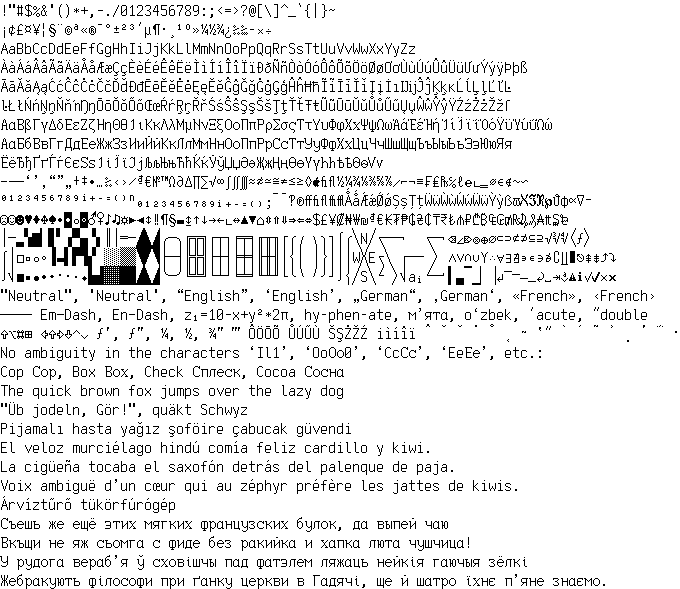
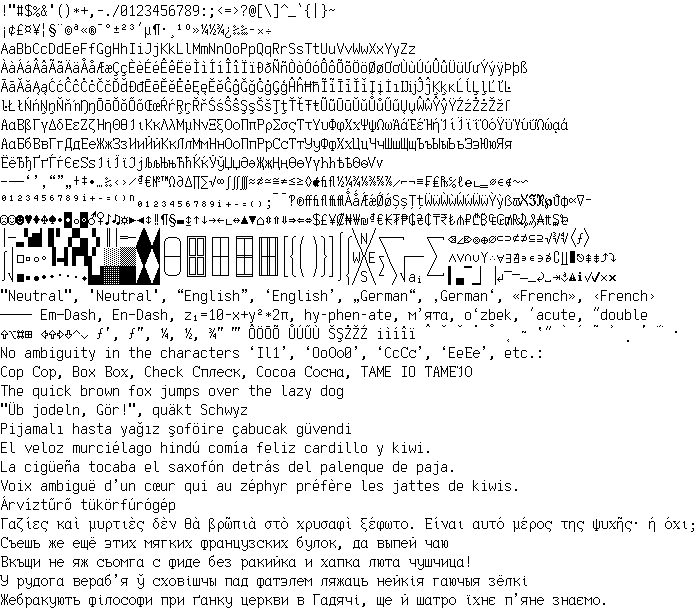
v1.6

Changed region(s): [[0.0, 0.0, 1.0, 1.0]]

diff --git a/export.js b/export.js
@@ -6,6 +6,7 @@ const chWidth = 8;
 const chHeight = 19;
 const chCapsHeight = 11;
 const chMaxDiacriticHeight = 6;
+const chSecondDiacriticsOffset = 4;
 
 const chars = kbitxParse('./Codescopix.kbitx');
 const infoByCharCode = Object.fromEntries(chars.map(ch => [ch.code, ch]));
@@ -53,7 +54,7 @@ function getAsciiImage() {
 function getTableText() {
     let latestGroup = '';
     let latestPos = 0;
-    const groupCols = ['000', '040', '223'];
+    const groupCols = ['000', '040', '225'];
     const colHeader = 'Code ' + [...Array(16).keys()].map(n => toHex(n, 1)).join(' ') + ' ';
     const cols = groupCols.map(() => [colHeader])
     for (let char of chars) {
@@ -111,7 +112,7 @@ function getImage(/** @type {string[]} */ textLines) {
                     if (!isDiacritics) {
                         offset = Math.max(0, chCapsHeight - charY - 1);
                     } else {
-                        offset -= 4; // second diacritics
+                        offset -= chSecondDiacriticsOffset; // second diacritics
                     }
                 }
                 isDiacritics = true;
@@ -129,7 +130,7 @@ writeFileSync('./Example.png', getImage([
     'ÀàÁáÂâÃãÄäÅåÆæÇçÈèÉéÊêËëÌìÍíÎîÏïÐðÑñÒòÓóÔôÕõÖöØøƠơÙùÚúÛûÜüƯưÝýÿÞþß',
     'ĀāĂăĄąĆćĈĉĊċČčĎďĐđĒēĔĕĖėĘęĚěĜĝĞğĠġĢģĤĥĦħĨĩĪīĬĭĮįİıĲĳĴĵĶķĸĹĺĻļĽľĿ',
     'ŀŁłŃńŅņŇňŉŊŋŌōŎŏŐőŒœŔŕŖŗŘřŚśŜŝŞşŠšŢţŤťŦŧŨũŪūŬŭŮůŰűŲųŴŵŶŷŸŹźŻżŽžſ',
-    'ΑαΒβΓγΔδΕεΖζΗηΘθΙιΚκΛλΜμΝνΞξΟοΠπΡρΣσςΤτΥυΦφΧχΨψΩωΆάΈέΉήΊίΪϊΐΌόΫϋΎύΰΏώ',
+    'ΑαΒβΓγΔδΕεΖζΗηΘθΙιΚκΛλΜμΝνΞξΟοΠπΡρΣσςΤτΥυΦφΧχΨψΩωΆάΈέΉήΊίΪϊΐΌόΫϋΎύΰΏώᾳἀ',
     'АаБбВвГгДдЕеЖжЗзИиЙйКкЛлМмНнОоПпРрСсТтУуФфХхЦцЧчШшЩщЪъЫыЬьЭэЮюЯя',
     'ЁёЂђҐґЃѓЄєЅѕІіЇїЈјЉљЊњЋћЌќЎўЏџӘәҖҗҢңӨөҮүҺһѢѣѲѳѴѵ',
     '–—―‘’‚“”„†‡•…‰‹›⁄₫€№™Ω∂∆∏∑√∞∫∬∭≈≉≃≅≠≤≥◊\uF8FFﬁﬂ½¼¾⅛⅜⅝⅞∕⌐¬≡₣₤₧℅ℓ℮∟‗⌀∈∉∼∽',
@@ -142,7 +143,7 @@ writeFileSync('./Example.png', getImage([
     '―――― Em—Dash, En–Dash, z₁=10-x+y²*2π, hy‐phen‐ate, мʼята, oʻzbek, ´acute, ˝double',
     '⇧⌥⌘⊞ ⇦⇧⇨⇩⌃⌄ ƒ′, ƒ″, ¼, ½, ¾″ ‴ ÔÖŌÕ ŮÚŰÙ ŠŞŻŽŹ iìíîï ˆ ˇ ˘ ˙ ˚ ˛ ˜ ‛˝ ̀ ́ ̃ ̉ ̣ ΄ ΅ ·',
     'No ambiguity in the characters ‘Il1’, ‘OoОо0’, ‘CcСс’, ‘EeЕе’, etc.:',
-    'Cop Сор, Box Вох, Check Сплеск, Cocoa Сосна',
+    'Cop Сор, Box Вох, Check Сплеск, Cocoa Сосна, TAME IO ΤΑΜΕΊΟ',
     'The quick brown fox jumps over the lazy dog',
     '"Üb jodeln, Gör!", quäkt Schwyz',
     'Pijamalı hasta yağız şoföire çabucak güvendi',
@@ -150,6 +151,7 @@ writeFileSync('./Example.png', getImage([
     'La cigüeña tocaba el saxofón detrás del palenque de paja.',
     'Voix ambiguë d’un cœur qui au zéphyr préfère les jattes de kiwis.',
     'Árvíztűrő tükörfúrógép',
+    'Γαζίες καὶ μυρτιὲς δὲν θὰ βρῶπιὰ στὸ χρυσαφὶ ξέφωτο. Είναι αυτό μέρος της ψυχῆς· ή όχι;',
     'Съешь же ещё этих мягких французских булок, да выпей чаю',
     'Вкъщи не яж сьомга с фиде без ракийка и хапка люта чушчица!',
     'У рудога вераб’я ў сховішчы пад фатэлем ляжаць нейкія гаючыя зёлкі',
